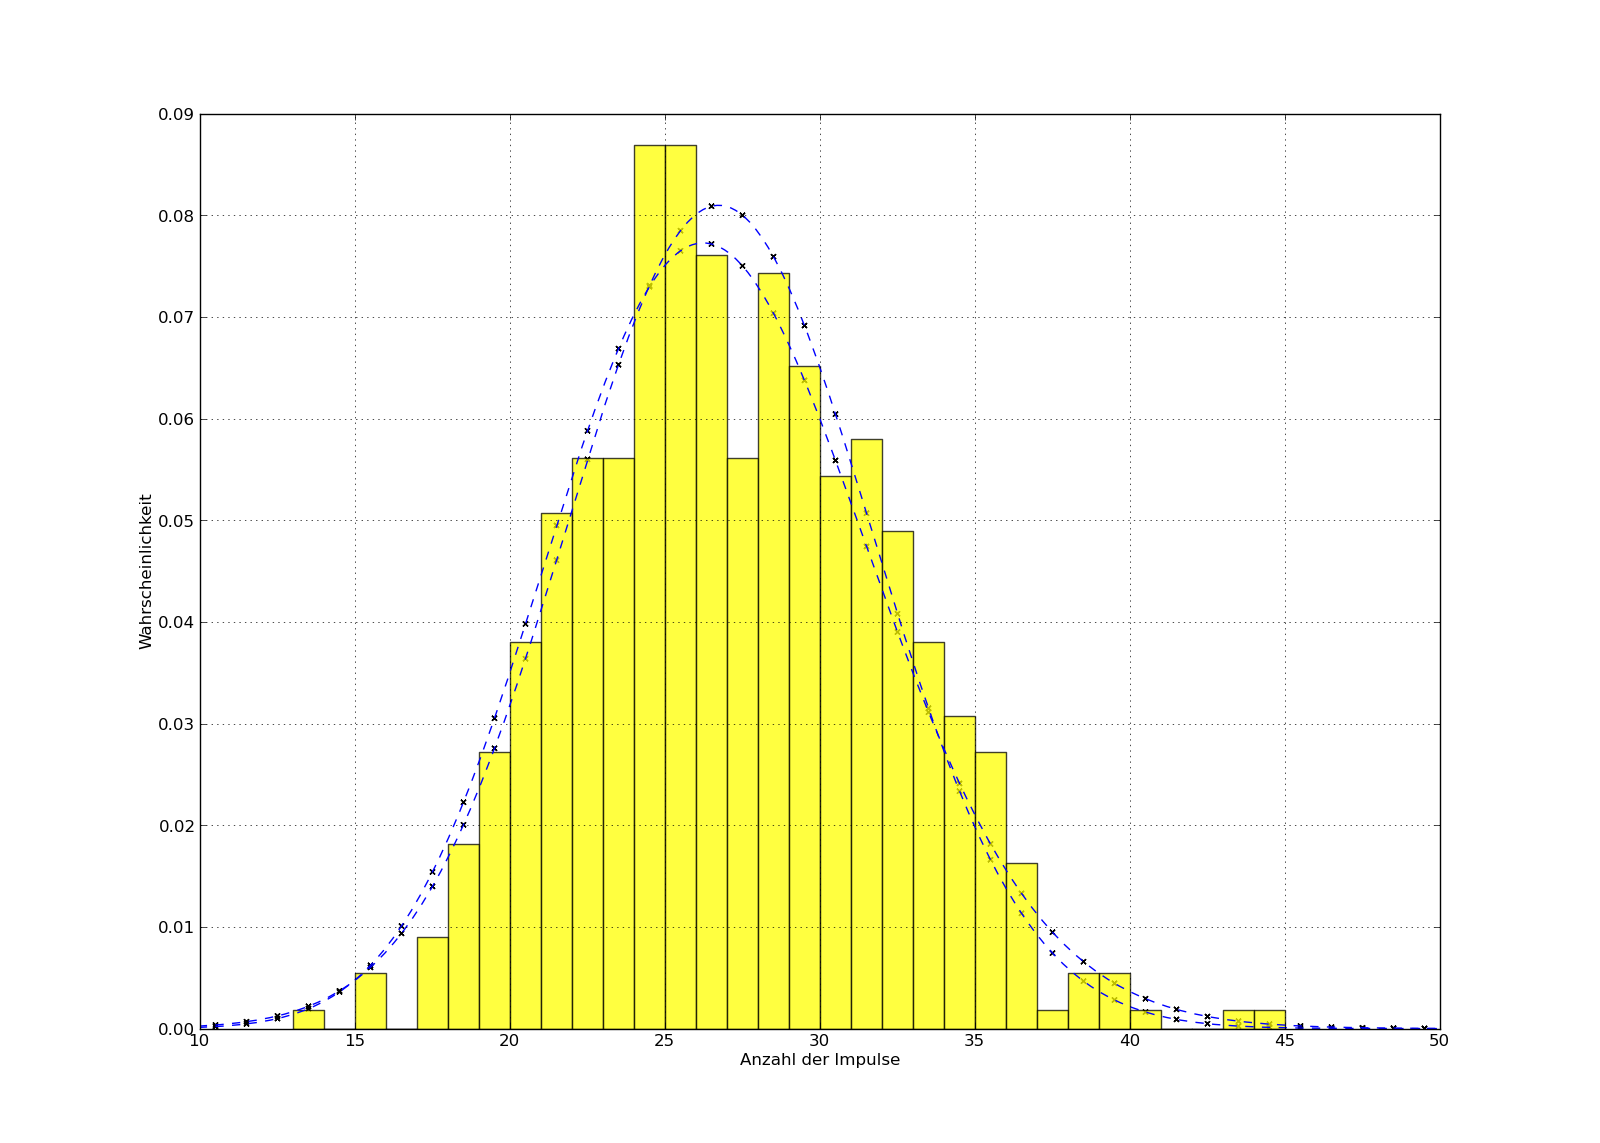
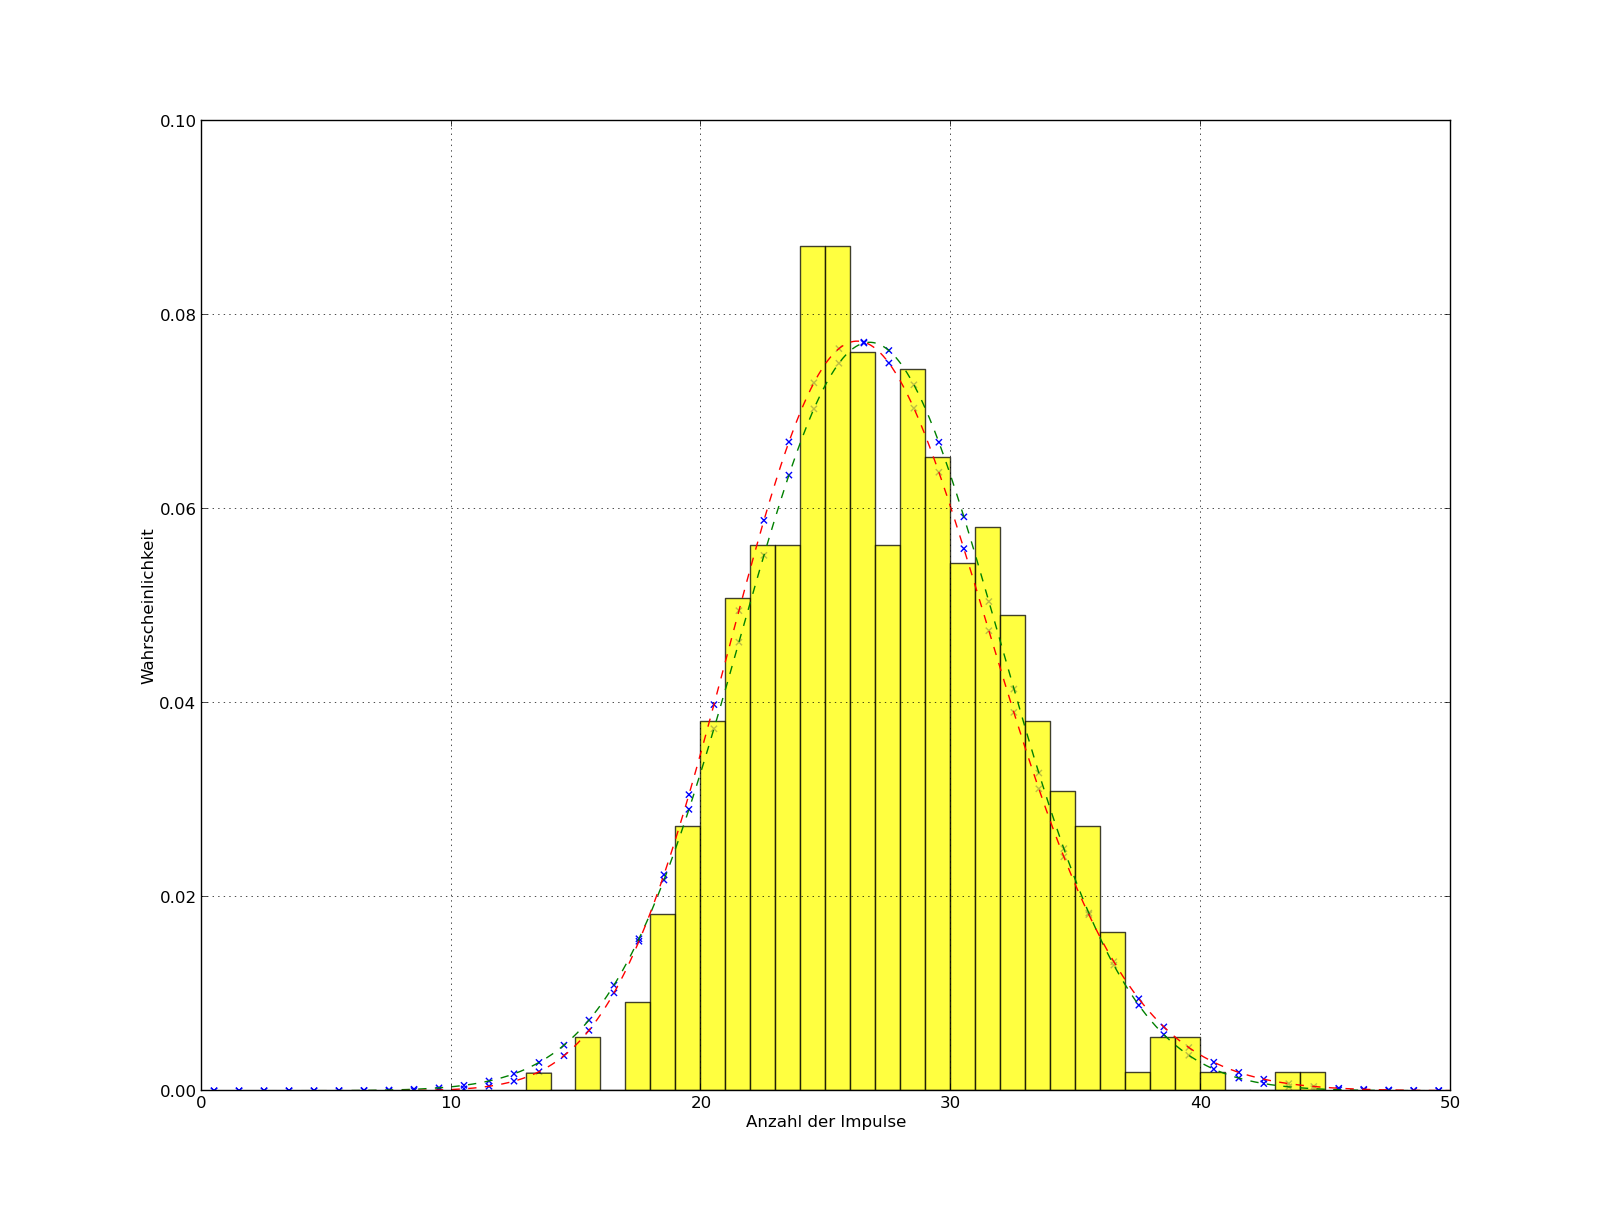
zuhaus

diff --git a/AP2/versuch24/versuch24.py b/AP2/versuch24/versuch24.py
@@ -1,71 +1,132 @@
+# -*- coding: utf-8 -*-
 import ocd
 import sympy as sy
 import matplotlib.pyplot as plt
 import matplotlib.mlab as mlab
 import numpy as np
 import scipy as sc
-def plot_messung1():
-	messung1=ocd.open_csv("messung1.csv")
-	n=messung1[0].x.magnitude
-	t=messung1[1].x.magnitude
+def get_distance(f):
+        poisson= lambda k,mu: 1./(sc.factorial(k)*np.exp(mu))*mu**k
+        normal_k= lambda k,mu: 1./np.sqrt(2*np.pi*mu)*np.exp(-(k-mu)**2/(2*mu))
+        mu_=np.arange(1,100+1,1)
+        vals=np.zeros([100])
+        for k in xrange(len(mu_)):
+                mu=mu_[k]
+                x=abs(poisson(0,mu)-normal_k(0,mu))
+                xlim=x*10**(-f)
+                s=0
+                n=0
+                while x>xlim:
+                        n+=1
+                        x=abs(poisson(n,mu)-normal_k(n,mu))
+                        s+=x
+                vals[k]=s
+        plt.plot(mu_,vals)
+def get_max_distance():
+        poisson= lambda k,mu: 1./(sc.factorial(k)*np.exp(mu))*mu**k
+        normal_k= lambda k,mu: 1./np.sqrt(2*np.pi*mu)*np.exp(-(k-mu)**2/(2*mu))
+        mu_=np.arange(1,100+1,1)
+        vals=np.zeros([100])
+        for k in xrange(len(mu_)):
+                mu=mu_[k]
+                x=abs(poisson(0,mu)-normal_k(0,mu))
+                xlim=x*10**(-3)
+                s=0
+                n=0
+                while x>xlim:
+                        n+=1
+                        x=abs(poisson(n,mu)-normal_k(n,mu))
+                        s=max(s,x)
+                vals[k]=s
+        plt.plot(mu_,vals)
 
+
+def plot_messung(n,t,b_len,y_lim,lens):
 	mu,sigma=np.mean(n),np.std(n)
-	fig= plt.figure()
+        print "Mittelwert: %.3f"%mu
+        print "Varianz: %.3f Poisson: %.3f"%(sigma**2,mu)
+        print "Standardabweichung: %.3f Poisson: %.3f"%(sigma,np.sqrt(mu))
+        print "Standardabweichung des Mittelwerts: %.3f Poisson: %.3f"%(sigma/np.sqrt(len(n)),np.sqrt(mu)/np.sqrt(len(n)))
+        print "Gesamtanzahl der Ereignisse:",np.sum(n)
+        print "mittlere Zaehlrate: %.3f 1/s"%(np.mean(n)/(1.5))
+        print "Standardabweichung der Zaehlrate: %.3f 1/s"%(np.std(n)/1.5)
+        print "Standardabweichung der mittleren Zaehlrate: %.3f 1/s"%(np.std(n)/1.5/np.sqrt(len(n)))
+        print "Schiefe: %.3f Poisson: %.3f"%(np.mean((n-n.mean())**3)/sigma**3,1/np.sqrt(mu))
+        print "Kurtosis: %.3f Poisson: %.3f"%(np.mean((n-n.mean())**4)/sigma**4-3,1/(mu))
+        print ""
+        fig=plt.figure(figsize=(16,12))
 	ax = fig.add_subplot(111)
 
 	# the histogram of the data
-	n, bins, patches = ax.hist(n, 32, normed=1, facecolor='yellow', alpha=0.75)
-
-
-	b=np.linspace(0,50,1000)
-	b2=np.arange(0,50,1)+0.5
-
-	# add a 'best fit' line for the normal PDF
-	poisson= lambda k: 1./(sc.factorial(k)*np.exp(mu))*mu**k
-	y = mlab.normpdf( b, mu, sigma)
-	y2 =mlab.normpdf( b2, mu, sigma)
-	l = ax.plot(b, y, 'b--', linewidth=1)
-	p = ax.plot(b, poisson(b), 'b--', linewidth=1)
-	l = ax.scatter(b2, y2,marker="x" ,c="b")
-	p = ax.scatter(b2, poisson(b2) ,marker="x" ,c="b")
-	ax.set_xlabel('Anzahl der Impulse')
-	ax.set_ylabel('Wahrscheinlichkeit')
-	ax.grid(True)
-	plt.ylim(0,0.09)
-	plt.xlim(10,50)
-	plt.show()
-def plot_messung2():
-	messung2=ocd.open_csv("messung2.csv")
-	n=messung2[1].x.magnitude
-	t=messung2[0].x.magnitude
-
-	mu,sigma=np.mean(n),np.std(n)
-	fig= plt.figure()
-	ax = fig.add_subplot(111)
-
-	# the histogram of the data
-	n, bins, patches = ax.hist(n, 13, normed=1, facecolor='yellow', alpha=0.75)
+	n, bins, patches = ax.hist(n, lens, normed=1, facecolor='yellow', alpha=0.75)
 
 
 	bincenters = 0.5*(bins[1:]+bins[:-1])
-	b=np.linspace(0,13,1000)
-	b2=np.arange(0,13,1)+0.5
+	b=np.linspace(0,b_len,1000)
+	b2=np.arange(0,b_len,1)+0.5
 
 	# add a 'best fit' line for the normal PDF
-	poisson= lambda k: 1./(sc.factorial(k)*np.exp(mu))*mu**k
-	y = mlab.normpdf( b, mu, sigma)
-	y2 =mlab.normpdf( b2, mu, sigma)
-	l = ax.plot(b, y, 'b--', linewidth=1)
+		#y = mlab.normpdf( b, mu, sigma)
+	#y2 =mlab.normpdf( b2, mu, sigma)
+	#l = ax.plot(b, y, 'b--', linewidth=1)
+        poisson= lambda k: 1./(sc.factorial(k)*np.exp(mu))*mu**k
+        normal_k= lambda k: 1./np.sqrt(2*np.pi*mu)*np.exp(-(k-mu)**2/(2*mu))
+
+
+	nk= ax.plot(b, normal_k(b), 'g--', linewidth=1)
 	p = ax.plot(b, poisson(b), 'r--', linewidth=1)
-	l = ax.scatter(b2, y2,marker="x" ,c="b")
+	l = ax.scatter(b2, normal_k(b2),marker="x" ,c="b")
 	p = ax.scatter(b2, poisson(b2) ,marker="x" ,c="b")
 
 
 	ax.set_xlabel('Anzahl der Impulse')
 	ax.set_ylabel('Wahrscheinlichkeit')
-	plt.xlim(0,13)
-	plt.ylim(0,0.2)
+	plt.xlim(0,b_len)
+	plt.ylim(0,y_lim)
 	ax.grid(True)
 
 	plt.show()
-plot_messung2()
+def plot_messung3():
+	mu,sigma=0.531335,0.721217
+        print "Mittelwert: 0.531"
+        print "Varianz: 0.520 Poisson: 0.531"
+        print "Standardabweichung: 0.721 Poisson: 0.729"
+        print "Standardabweichung des Mittelwerts: 0.022 Poisson: 0.022"
+        print "Gesamtanzahl der Ereignisse: 585"
+        print "mittlere Zaehlrate: 1.063 1/s"
+        print "Standardabweichung der Zaehlrate: 1.442 1/s"
+        print "Standardabweichung der mittleren Zaehlrate: 0.043 1/s"
+        print "Schiefe: %.3f Poisson: %.3f"%(1/np.sqrt(mu)*0.99,1/np.sqrt(mu))
+        print "Kurtosis: %.3f Poisson: %.3f"%(0.999/mu,1/(mu))
+        print ""
+
+        H=np.array([6.45*10**2,3.45*10**2,9.5*10,14,2])
+        fig=plt.figure(figsize=(16,12))
+        plt.scatter(np.arange(0,4+1,1),H/1101,marker="^",s=80)
+        poisson= lambda k: 1./(sc.factorial(k)*np.exp(mu))*mu**k
+        normal_k= lambda k: 1./np.sqrt(2*np.pi*mu)*np.exp(-(k-mu)**2/(2*mu))
+        b=np.linspace(0,5,100)
+        b2=np.arange(0,5,1)
+        plt.plot(b, normal_k(b), 'g--', linewidth=1)
+	plt.plot(b, poisson(b), 'r--', linewidth=1)
+	plt.scatter(b2, normal_k(b2),marker="x" ,c="b")
+	plt.scatter(b2, poisson(b2) ,marker="x" ,c="b")
+        plt.title("Messung 3")
+        plt.xlabel("Anzahl der Pulse")
+        plt.ylabel("Wahrscheinlichkeit")
+        plt.grid(True)
+        plt.xlim(0,5)
+        plt.ylim(0,0.7)
+        plt.show()
+
+messung1=ocd.open_csv("messung1.csv")
+n1=messung1[0].x.magnitude
+t1=messung1[1].x.magnitude
+plot_messung(n1,t1,50,0.1,32)
+       
+messung2=ocd.open_csv("messung2.csv")
+n2=messung2[1].x.magnitude
+t2=messung2[0].x.magnitude
+plot_messung(n2,t2,12,0.2,13)
+
+plot_messung3()

diff --git a/AP2/versuch79/versuch79.py b/AP2/versuch79/versuch79.py
@@ -2,23 +2,30 @@
 import sympy as sy
 import ocd
 import matplotlib.pyplot as plt
+import numpy as np
 Werte=ocd.open_csv("messung.csv")
+max_werte=[k.max() for k in Werte]
 alpha=sy.Symbol("alpha")
 U=sy.Symbol("U")
 U_rot=sy.Symbol("U_rot")
 U_gruen=sy.Symbol("U_gruen")
-var=[alpha,U,U_rot,U_gruen]
-print sy.cos(90).evalf()
+U_max=sy.Symbol("U_max")
+U_rot_max=sy.Symbol("U_rot_max")
+U_gruen_max=sy.Symbol("U_gruen_max")
+var=[alpha,U,U_rot,U_gruen,U_max,U_rot_max,U_gruen_max]
 cos2=sy.cos(alpha)**2
 plt.figure()
-t1=ocd.plot_var(cos2,U,var,Werte,True)
-t2=ocd.plot_var(cos2,U_rot,var,Werte,True)
-t3=ocd.plot_var(cos2,U_gruen,var,Werte,True)
-print "a: %.3f b: %.3f Sa: %.3f Sb: %.3f Sy: %.3f"%t1
-print "a: %.3f b: %.3f Sa: %.3f Sb: %.3f Sy: %.3f"%t2
-print "a: %.3f b: %.3f Sa: %.3f Sb: %.3f Sy: %.3f"%t3 
-plt.xlabel(ur"$\cos(\alpha)^2$")
-plt.ylabel(ur"$U$ in $mv$")
-plt.title(ur"Bestätigung des Gesetzes ${I}'=\cos(\alpha)^2 I$")
+t1=ocd.plot_var(alpha,U/U_max,var,Werte+max_werte,False)
+t2=ocd.plot_var(alpha,U_rot/U_rot_max,var,Werte+max_werte,False)
+t3=ocd.plot_var(alpha,U_gruen/U_gruen_max,var,Werte+max_werte,False)
+x=np.linspace(-1.58,1.58,1000)
+plt.plot(x,np.cos(x)**2)
+#print "a: %.3f b: %.3f Sa: %.3f Sb: %.3f Sy: %.3f"%t1
+#print "a: %.3f b: %.3f Sa: %.3f Sb: %.3f Sy: %.3f"%t2
+#print "a: %.4f b: %.3f Sa: %.3f Sb: %.3f Sy: %.3f"%t3 
+plt.xlabel(ur"$\alpha$")
+plt.ylabel(ur"$\frac{I}{I}$")
+plt.title(ur"Bestätigung des Gesetzes $I=\cos(\alpha)^3 I$")
+plt.grid(True)
 plt.show()
 

diff --git a/AP2/versuch24/ocd.py b/AP2/versuch24/ocd.py
@@ -1,1 +1,1 @@
-/home/vk27/Programming/p-master/src/ocd.py
+/home/vsilv/Programming/uni/physik/p-master/src/ocd.py

diff --git a/AP2/versuch79/ocd.py b/AP2/versuch79/ocd.py
@@ -1,1 +1,1 @@
-/home/vk27/Programming/p-master/src/ocd.py
+/home/vsilv/Programming/uni/physik/p-master/src/ocd.py
